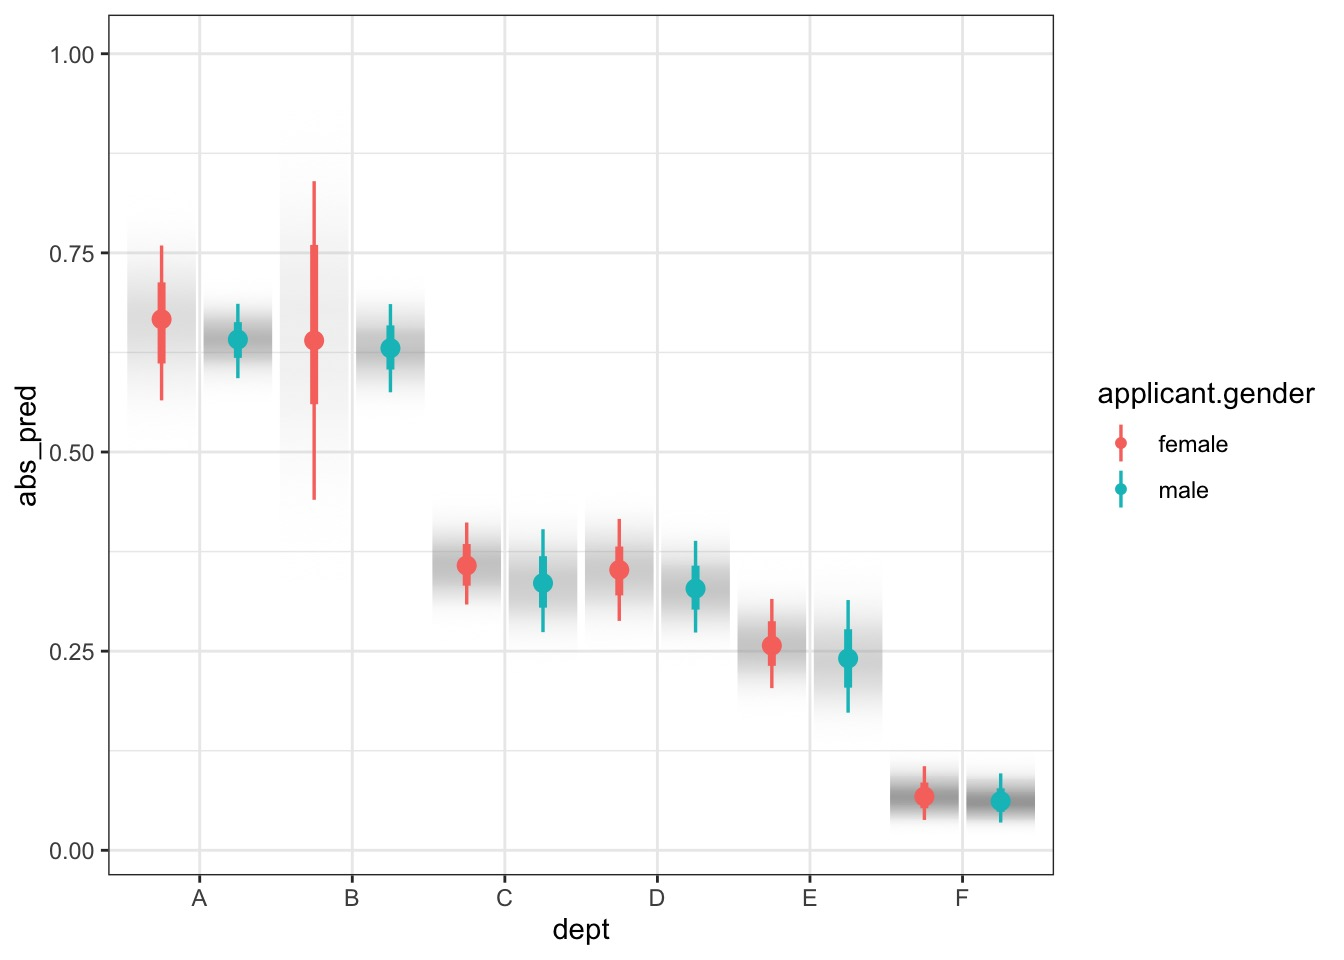
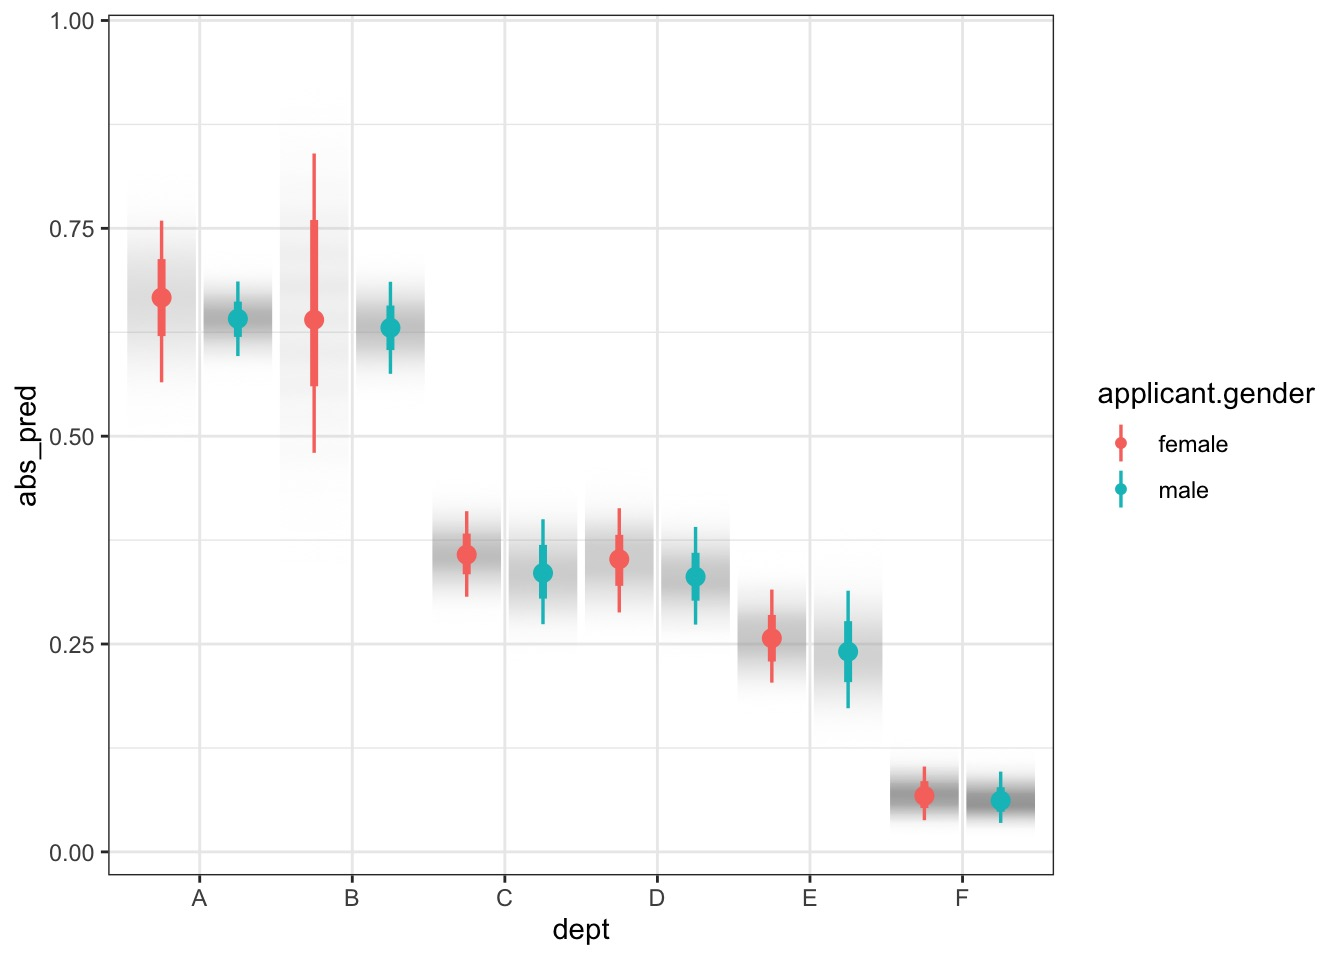
Fix lecture problems

diff --git a/lectures/maxent_glm.html b/lectures/maxent_glm.html
@@ -1069,7 +1069,7 @@ delta[6] -2.1727096 0.5468627 -3.0467019 -1.2987173</code></pre>
 <section id="model-vis-with-tidybayes-1" class="title-slide slide level1 center">
 <h1>Model Vis with Tidybayes</h1>
 
-</section>
+<img data-src="maxent_glm_files/figure-revealjs/viz_tb-1.jpeg" width="672" class="r-stretch"></section>
 
 <section id="prediction-intervals-and-binomial-glms" class="title-slide slide level1 center">
 <h1>Prediction Intervals and Binomial GLMs</h1>
@@ -1165,7 +1165,7 @@ delta[6] -2.1727096 0.5468627 -3.0467019 -1.2987173</code></pre>
 <section id="disparities-in-who-applied-where" class="title-slide slide level1 center">
 <h1>Disparities in Who Applied Where?</h1>
 
-<img data-src="maxent_glm_files/figure-revealjs/unnamed-chunk-13-1.jpeg" width="672" class="r-stretch"></section>
+<img data-src="maxent_glm_files/figure-revealjs/unnamed-chunk-11-1.jpeg" width="672" class="r-stretch"></section>
 
 <section id="modeling-how-gender-influences-application" class="title-slide slide level1 center">
 <h1>Modeling How Gender Influences Application</h1>
@@ -1210,19 +1210,30 @@ log(<span class="math inline">\(\lambda_i) = \alpha + \beta_1 x1_i + \beta_2 x2_
 
 <section id="coded" class="title-slide slide level1 center">
 <h1>Coded</h1>
-
+<div class="cell">
+<div class="sourceCode cell-code" id="cb23"><pre class="sourceCode numberSource r number-lines code-with-copy"><code class="sourceCode r"><span id="cb23-1"><a href=""></a>mod_apply_add <span class="ot">&lt;-</span> <span class="fu">alist</span>(</span>
+<span id="cb23-2"><a href=""></a>  applications <span class="sc">~</span> <span class="fu">dpois</span>(lambda),</span>
+<span id="cb23-3"><a href=""></a>  </span>
+<span id="cb23-4"><a href=""></a>  <span class="fu">log</span>(lambda) <span class="ot">&lt;-</span> a[gender] <span class="sc">+</span> b[dept_id],</span>
+<span id="cb23-5"><a href=""></a>  </span>
+<span id="cb23-6"><a href=""></a>  a[gender] <span class="sc">~</span> <span class="fu">dnorm</span>(<span class="dv">0</span>,<span class="dv">1</span>),</span>
+<span id="cb23-7"><a href=""></a>  b[dept_id] <span class="sc">~</span> <span class="fu">dnorm</span>(<span class="dv">0</span>,<span class="dv">1</span>)</span>
+<span id="cb23-8"><a href=""></a>)</span>
+<span id="cb23-9"><a href=""></a></span>
+<span id="cb23-10"><a href=""></a>fit_apply_add <span class="ot">&lt;-</span> <span class="fu">quap</span>(mod_apply_add, <span class="at">data =</span> UCBadmit)</span></code><button title="Copy to Clipboard" class="code-copy-button"><i class="bi"></i></button></pre></div>
+</div>
 </section>
 
 <section id="were-those-reasonable-priors" class="title-slide slide level1 center">
 <h1>Were those reasonable priors?</h1>
 <div class="cell">
-<div class="sourceCode cell-code" id="cb23"><pre class="sourceCode numberSource r number-lines code-with-copy"><code class="sourceCode r"><span id="cb23-1"><a href=""></a><span class="co">#Let's simulate some priors!</span></span>
-<span id="cb23-2"><a href=""></a>prior_sims_apply <span class="ot">&lt;-</span> <span class="fu">extract.prior</span>(fit_apply_add)</span>
-<span id="cb23-3"><a href=""></a></span>
-<span id="cb23-4"><a href=""></a><span class="co"># What would 1 dept look like for one gender?</span></span>
-<span id="cb23-5"><a href=""></a>ps <span class="ot">&lt;-</span> <span class="fu">exp</span>(prior_sims_apply<span class="sc">$</span>a[,<span class="dv">1</span>] <span class="sc">+</span> prior_sims_apply<span class="sc">$</span>b[,<span class="dv">1</span>]) </span>
-<span id="cb23-6"><a href=""></a> </span>
-<span id="cb23-7"><a href=""></a><span class="fu">hist</span>(ps, <span class="at">main =</span> <span class="st">"Distribiution of Applications"</span>)</span></code><button title="Copy to Clipboard" class="code-copy-button"><i class="bi"></i></button></pre></div>
+<div class="sourceCode cell-code" id="cb24"><pre class="sourceCode numberSource r number-lines code-with-copy"><code class="sourceCode r"><span id="cb24-1"><a href=""></a><span class="co">#Let's simulate some priors!</span></span>
+<span id="cb24-2"><a href=""></a>prior_sims_apply <span class="ot">&lt;-</span> <span class="fu">extract.prior</span>(fit_apply_add)</span>
+<span id="cb24-3"><a href=""></a></span>
+<span id="cb24-4"><a href=""></a><span class="co"># What would 1 dept look like for one gender?</span></span>
+<span id="cb24-5"><a href=""></a>ps <span class="ot">&lt;-</span> <span class="fu">exp</span>(prior_sims_apply<span class="sc">$</span>a[,<span class="dv">1</span>] <span class="sc">+</span> prior_sims_apply<span class="sc">$</span>b[,<span class="dv">1</span>]) </span>
+<span id="cb24-6"><a href=""></a> </span>
+<span id="cb24-7"><a href=""></a><span class="fu">hist</span>(ps, <span class="at">main =</span> <span class="st">"Distribiution of Applications"</span>)</span></code><button title="Copy to Clipboard" class="code-copy-button"><i class="bi"></i></button></pre></div>
 
 </div>
 <img data-src="maxent_glm_files/figure-revealjs/prior_sim_pois-1.jpeg" width="672" class="r-stretch"></section>
@@ -1230,7 +1241,7 @@ log(<span class="math inline">\(\lambda_i) = \alpha + \beta_1 x1_i + \beta_2 x2_
 <section id="and-for-real" class="title-slide slide level1 center">
 <h1>And for real</h1>
 
-<img data-src="maxent_glm_files/figure-revealjs/unnamed-chunk-14-1.jpeg" width="672" class="r-stretch"><ul>
+<img data-src="maxent_glm_files/figure-revealjs/unnamed-chunk-12-1.jpeg" width="672" class="r-stretch"><ul>
 <li>Up the SD!</li>
 </ul>
 </section>
@@ -1238,35 +1249,62 @@ log(<span class="math inline">\(\lambda_i) = \alpha + \beta_1 x1_i + \beta_2 x2_
 <section id="priors-at-different-sds" class="title-slide slide level1 center">
 <h1>Priors at Different SDs</h1>
 
-<img data-src="maxent_glm_files/figure-revealjs/unnamed-chunk-15-1.jpeg" width="672" class="r-stretch"></section>
+<img data-src="maxent_glm_files/figure-revealjs/unnamed-chunk-13-1.jpeg" width="672" class="r-stretch"></section>
 
 <section id="better-regularizing-priors" class="title-slide slide level1 center">
 <h1>Better Regularizing Priors</h1>
-
+<div class="cell">
+<div class="sourceCode cell-code" id="cb25"><pre class="sourceCode numberSource r number-lines code-with-copy"><code class="sourceCode r"><span id="cb25-1"><a href=""></a>mod_apply_add <span class="ot">&lt;-</span> <span class="fu">alist</span>(</span>
+<span id="cb25-2"><a href=""></a>  applications <span class="sc">~</span> <span class="fu">dpois</span>(lambda),</span>
+<span id="cb25-3"><a href=""></a>  </span>
+<span id="cb25-4"><a href=""></a>  <span class="fu">log</span>(lambda) <span class="ot">&lt;-</span> a[gender] <span class="sc">+</span> b[dept_id],</span>
+<span id="cb25-5"><a href=""></a>  </span>
+<span id="cb25-6"><a href=""></a>  a[gender] <span class="sc">~</span> <span class="fu">dnorm</span>(<span class="dv">0</span>,<span class="dv">2</span>),</span>
+<span id="cb25-7"><a href=""></a>  b[dept_id] <span class="sc">~</span> <span class="fu">dnorm</span>(<span class="dv">0</span>,<span class="dv">2</span>)</span>
+<span id="cb25-8"><a href=""></a>)</span>
+<span id="cb25-9"><a href=""></a></span>
+<span id="cb25-10"><a href=""></a>fit_apply_add <span class="ot">&lt;-</span> <span class="fu">quap</span>(mod_apply_add, <span class="at">data =</span> UCBadmit)</span></code><button title="Copy to Clipboard" class="code-copy-button"><i class="bi"></i></button></pre></div>
+</div>
 </section>
 
 <section id="was-this-any-good" class="title-slide slide level1 center">
 <h1>Was this Any Good?</h1>
+<div class="cell">
+<div class="sourceCode cell-code" id="cb26"><pre class="sourceCode numberSource r number-lines code-with-copy"><code class="sourceCode r"><span id="cb26-1"><a href=""></a><span class="fu">postcheck</span>(fit_apply_add)</span></code><button title="Copy to Clipboard" class="code-copy-button"><i class="bi"></i></button></pre></div>
 
-<img data-src="maxent_glm_files/figure-revealjs/unnamed-chunk-16-1.jpeg" width="672" class="r-stretch"></section>
+</div>
+<img data-src="maxent_glm_files/figure-revealjs/unnamed-chunk-14-1.jpeg" width="672" class="r-stretch"></section>
 
 <section id="what-about-gender-department" class="title-slide slide level1 center">
 <h1>What About Gender * Department</h1>
-
+<div class="cell">
+<div class="sourceCode cell-code" id="cb27"><pre class="sourceCode numberSource r number-lines code-with-copy"><code class="sourceCode r"><span id="cb27-1"><a href=""></a>UCBadmit <span class="ot">&lt;-</span> UCBadmit <span class="sc">|&gt;</span></span>
+<span id="cb27-2"><a href=""></a>  <span class="fu">mutate</span>(<span class="at">gen_dept =</span> <span class="fu">as.numeric</span>(<span class="fu">as.factor</span>(<span class="fu">paste</span>(gender, dept_id))))</span>
+<span id="cb27-3"><a href=""></a></span>
+<span id="cb27-4"><a href=""></a>mod_apply <span class="ot">&lt;-</span> <span class="fu">alist</span>(</span>
+<span id="cb27-5"><a href=""></a>  applications <span class="sc">~</span> <span class="fu">dpois</span>(lambda),</span>
+<span id="cb27-6"><a href=""></a>  </span>
+<span id="cb27-7"><a href=""></a>  <span class="fu">log</span>(lambda) <span class="ot">&lt;-</span> a[gen_dept],</span>
+<span id="cb27-8"><a href=""></a>  </span>
+<span id="cb27-9"><a href=""></a>  a[gen_dept] <span class="sc">~</span> <span class="fu">dnorm</span>(<span class="dv">0</span>,<span class="dv">2</span>)</span>
+<span id="cb27-10"><a href=""></a>)</span>
+<span id="cb27-11"><a href=""></a></span>
+<span id="cb27-12"><a href=""></a>fit_apply <span class="ot">&lt;-</span> <span class="fu">quap</span>(mod_apply, UCBadmit)</span></code><button title="Copy to Clipboard" class="code-copy-button"><i class="bi"></i></button></pre></div>
+</div>
 </section>
 
 <section id="postcheck" class="title-slide slide level1 center">
 <h1>Postcheck</h1>
 
-<img data-src="maxent_glm_files/figure-revealjs/unnamed-chunk-18-1.jpeg" width="672" class="r-stretch"></section>
+<img data-src="maxent_glm_files/figure-revealjs/unnamed-chunk-16-1.jpeg" width="672" class="r-stretch"></section>
 
 <section id="but-more-parameters-so-compare" class="title-slide slide level1 center">
 <h1>But, More Parameters, so Compare</h1>
 <div class="cell">
 <div class="cell-output cell-output-stdout">
 <pre><code>                   WAIC         SE    dWAIC      dSE      pWAIC weight
-fit_apply      110.9544   3.230725    0.000       NA   6.154382      1
-fit_apply_add 2235.8982 496.769827 2124.944 520.7569 608.625647      0</code></pre>
+fit_apply      110.5654   2.724398    0.000       NA   5.952435      1
+fit_apply_add 2249.7668 513.529145 2139.201 538.0993 622.615323      0</code></pre>
 </div>
 </div>
 </section>
@@ -1275,22 +1313,22 @@ fit_apply_add 2235.8982 496.769827 2124.944 520.7569 608.625647      0</code></p
 <section id="what-does-it-mean" class="title-slide slide level1 center">
 <h1>What does it Mean?</h1>
 
-<img data-src="maxent_glm_files/figure-revealjs/unnamed-chunk-20-1.jpeg" width="672" class="r-stretch"></section>
+<img data-src="maxent_glm_files/figure-revealjs/unnamed-chunk-18-1.jpeg" width="672" class="r-stretch"></section>
 <section id="code" class="slide level2">
 <h2>Code</h2>
 <div class="cell">
-<div class="sourceCode cell-code" id="cb25"><pre class="sourceCode numberSource r number-lines code-with-copy"><code class="sourceCode r"><span id="cb25-1"><a href=""></a><span class="fu">linpred_draws</span>(fit_apply, UCBadmit) <span class="sc">|&gt;</span></span>
-<span id="cb25-2"><a href=""></a>  <span class="fu">ggplot</span>(</span>
-<span id="cb25-3"><a href=""></a>       <span class="fu">aes</span>(<span class="at">x =</span> dept, <span class="at">y =</span> .value,</span>
-<span id="cb25-4"><a href=""></a>           <span class="at">group =</span> applicant.gender, </span>
-<span id="cb25-5"><a href=""></a>           <span class="at">color =</span> applicant.gender)) <span class="sc">+</span></span>
-<span id="cb25-6"><a href=""></a>  <span class="fu">stat_gradientinterval</span>(<span class="at">position =</span> <span class="st">"dodge"</span>)</span></code><button title="Copy to Clipboard" class="code-copy-button"><i class="bi"></i></button></pre></div>
+<div class="sourceCode cell-code" id="cb29"><pre class="sourceCode numberSource r number-lines code-with-copy"><code class="sourceCode r"><span id="cb29-1"><a href=""></a><span class="fu">linpred_draws</span>(fit_apply, UCBadmit) <span class="sc">|&gt;</span></span>
+<span id="cb29-2"><a href=""></a>  <span class="fu">ggplot</span>(</span>
+<span id="cb29-3"><a href=""></a>       <span class="fu">aes</span>(<span class="at">x =</span> dept, <span class="at">y =</span> .value,</span>
+<span id="cb29-4"><a href=""></a>           <span class="at">group =</span> applicant.gender, </span>
+<span id="cb29-5"><a href=""></a>           <span class="at">color =</span> applicant.gender)) <span class="sc">+</span></span>
+<span id="cb29-6"><a href=""></a>  <span class="fu">stat_gradientinterval</span>(<span class="at">position =</span> <span class="st">"dodge"</span>)</span></code><button title="Copy to Clipboard" class="code-copy-button"><i class="bi"></i></button></pre></div>
 </div>
 </section></section>
 <section id="its-an-indirect-effect-of-gender" class="title-slide slide level1 center">
 <h1>It’s an Indirect Effect of Gender</h1>
 
-<img data-src="maxent_glm_files/figure-revealjs/unnamed-chunk-22-1.jpeg" width="672" class="r-stretch"></section>
+<img data-src="maxent_glm_files/figure-revealjs/unnamed-chunk-20-1.jpeg" width="672" class="r-stretch"></section>
 
 <section id="a-generalized-outline-3" class="title-slide slide level1 center">
 <h1>A Generalized Outline</h1>
@@ -1315,8 +1353,8 @@ fit_apply_add 2235.8982 496.769827 2124.944 520.7569 608.625647      0</code></p
 <div class="cell">
 <div class="cell-output cell-output-stdout">
 <pre><code>                 WAIC        SE    dWAIC      dSE    pWAIC       weight
-fit_gen_int  89.98682  3.596489  0.00000       NA 6.359451 0.9998965616
-fit_gender  108.33968 15.889794 18.35286 16.49934 9.320503 0.0001034384</code></pre>
+fit_gen_int  89.74512  3.418411  0.00000       NA 6.235318 9.999277e-01
+fit_gender  108.81316 15.813711 19.06804 16.77553 9.515451 7.234299e-05</code></pre>
 </div>
 </div>
 </section>
@@ -1324,7 +1362,7 @@ fit_gender  108.33968 15.889794 18.35286 16.49934 9.320503 0.0001034384</code></
 <section id="department-a-is-biased-towards-women---although-fewer-apply" class="title-slide slide level1 center">
 <h1>Department A is Biased Towards Women - Although Fewer Apply</h1>
 
-<img data-src="maxent_glm_files/figure-revealjs/unnamed-chunk-24-1.jpeg" width="672" class="r-stretch"></section>
+<img data-src="maxent_glm_files/figure-revealjs/unnamed-chunk-22-1.jpeg" width="672" class="r-stretch"></section>
 
 <section id="q2-how-to-turn-poisson-model-into-probabilities" class="title-slide slide level1 center">
 <h1>Q2: How to Turn Poisson Model into Probabilities</h1>
@@ -1354,30 +1392,30 @@ fit_gender  108.33968 15.889794 18.35286 16.49934 9.320503 0.0001034384</code></
 <li>We Can Use our Predictions as Lambda</li>
 </ul>
 <div class="cell">
-<div class="sourceCode cell-code" id="cb27" data-code-line-numbers="|2-3|"><pre class="sourceCode numberSource r number-lines code-with-copy"><code class="sourceCode r"><span id="cb27-1"><a href=""></a>probs <span class="ot">&lt;-</span> <span class="fu">linpred_draws</span>(fit_apply, UCBadmit) <span class="sc">|&gt;</span></span>
-<span id="cb27-2"><a href=""></a>  <span class="fu">group_by</span>(.draw, applicant.gender) <span class="sc">|&gt;</span></span>
-<span id="cb27-3"><a href=""></a>  <span class="fu">mutate</span>(<span class="at">prob =</span> .value <span class="sc">/</span> <span class="fu">sum</span>(.value)) <span class="sc">|&gt;</span></span>
-<span id="cb27-4"><a href=""></a>  <span class="fu">ungroup</span>()</span></code><button title="Copy to Clipboard" class="code-copy-button"><i class="bi"></i></button></pre></div>
+<div class="sourceCode cell-code" id="cb31" data-code-line-numbers="|2-3|"><pre class="sourceCode numberSource r number-lines code-with-copy"><code class="sourceCode r"><span id="cb31-1"><a href=""></a>probs <span class="ot">&lt;-</span> <span class="fu">linpred_draws</span>(fit_apply, UCBadmit) <span class="sc">|&gt;</span></span>
+<span id="cb31-2"><a href=""></a>  <span class="fu">group_by</span>(.draw, applicant.gender) <span class="sc">|&gt;</span></span>
+<span id="cb31-3"><a href=""></a>  <span class="fu">mutate</span>(<span class="at">prob =</span> .value <span class="sc">/</span> <span class="fu">sum</span>(.value)) <span class="sc">|&gt;</span></span>
+<span id="cb31-4"><a href=""></a>  <span class="fu">ungroup</span>()</span></code><button title="Copy to Clipboard" class="code-copy-button"><i class="bi"></i></button></pre></div>
 </div>
 </section>
 
 <section id="big-disparities-in-where-different-genders-apply" class="title-slide slide level1 center">
 <h1>Big Disparities in Where Different Genders Apply</h1>
 
-<img data-src="maxent_glm_files/figure-revealjs/unnamed-chunk-26-1.jpeg" width="672" class="r-stretch"></section>
+<img data-src="maxent_glm_files/figure-revealjs/unnamed-chunk-24-1.jpeg" width="672" class="r-stretch"></section>
 
 <section id="calculating-the-probabilities-of-getting-into-dept-a-as-a-woman" class="title-slide slide level1 center">
 <h1>Calculating the Probabilities of Getting Into Dept A as a Woman</h1>
 <p>Direct Probability of Admission if a Woman:</p>
 <div class="cell">
 <div class="cell-output cell-output-stdout">
-<pre><code>[1] 0.8154051</code></pre>
+<pre><code>[1] 0.8139281</code></pre>
 </div>
 </div>
 <p>Probability of Applying to A if a Woman:</p>
 <div class="cell">
 <div class="cell-output cell-output-stdout">
-<pre><code>[1] 0.05861735</code></pre>
+<pre><code>[1] 0.05876211</code></pre>
 </div>
 </div>
 <p>0.06 * 0.81 = 0.0486</p>
